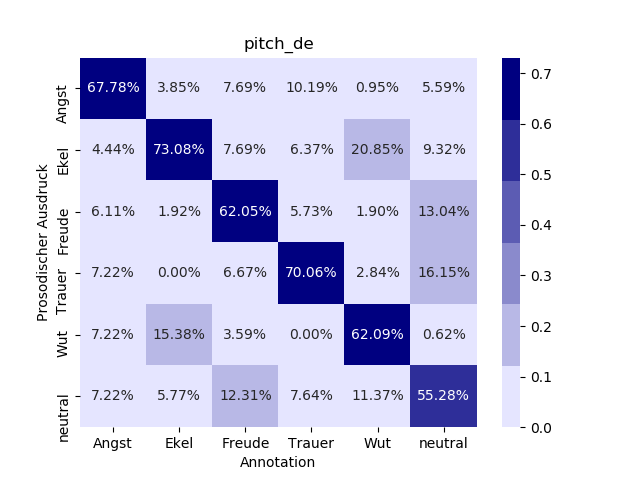
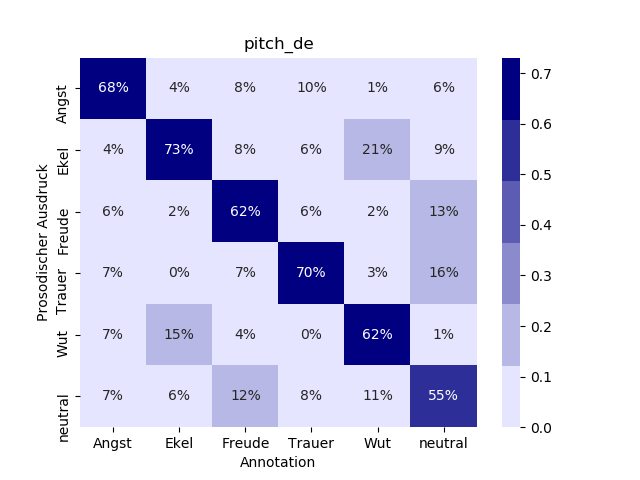
create an overview with participants info

diff --git a/experiment_overview.py b/experiment_overview.py
@@ -48,13 +48,49 @@ def create_experiment_overview(df_experiment, language):
 
 
 
+def participants_overview():
+    overview_folder = 'overview/final/'
+    file_list = dtp.get_filelist_in_folder(overview_folder)
+    df_participants = pd.DataFrame(columns=['Kultur', 'count_M', 'count_F', 'count_all','mean_age_all', 'min_age_all',
+                                            'max_age_all', 'SD_age_all','M_mean_age', 'M_SD_age','F_mean_age', 'F_SD_age'])
+    df_participants['Kultur'] = ['Deutsch', 'Armenisch']
+    for f in file_list:
+        f_path = overview_folder + f
+        experiment_overview = pd.read_csv(f_path, sep=';')
+        experiment_language = 'Deutsch' if experiment_overview['language'].str.contains('de').any() else 'Armenisch'
+        df_m = experiment_overview.loc[experiment_overview['sex'] == 'M']
+        df_f = experiment_overview.loc[experiment_overview['sex'] == 'F']
+        df_participants.loc[df_participants['Kultur'] == experiment_language, 'count_M'] = df_m.shape[0]
+        df_participants.loc[df_participants['Kultur'] == experiment_language, 'count_F'] = df_f.shape[0]
+        df_participants.loc[df_participants['Kultur'] == experiment_language, 'count_all'] = experiment_overview.shape[0]
+        df_participants.loc[df_participants['Kultur'] == experiment_language, 'mean_age_all'] = experiment_overview['age'].mean()
+        df_participants.loc[df_participants['Kultur'] == experiment_language, 'min_age_all'] = experiment_overview['age'].min()
+        df_participants.loc[df_participants['Kultur'] == experiment_language, 'max_age_all'] = experiment_overview[
+            'age'].max()
+        df_participants.loc[df_participants['Kultur'] == experiment_language,  'SD_age_all'] = np.std(experiment_overview['age'].to_list())
+        df_participants.loc[df_participants['Kultur'] == experiment_language, 'M_mean_age'] = df_m['age'].mean()
+        df_participants.loc[df_participants['Kultur'] == experiment_language, 'M_SD_age'] = np.std(df_m['age'].to_list())
+        df_participants.loc[df_participants['Kultur'] == experiment_language, 'F_mean_age'] = df_f['age'].mean()
+        df_participants.loc[df_participants['Kultur'] == experiment_language, 'F_SD_age'] = np.std(df_f['age'].to_list())
+
+    df_participants.to_csv('participants_overview.csv')
 
 
-base_folder = 'normalized_data/'
-file_list = dtp.get_filelist_in_folder(base_folder)
 
-for f in file_list:
-    f_path = base_folder + f
-    annotation_data = pd.read_csv(f_path)
-    experiment_language = dtp.get_experiment_language(annotation_data)
-    create_experiment_overview(annotation_data, experiment_language)
+
+
+def experiment_overview_for_folder():
+
+    base_folder = 'normalized_data/'
+    file_list = dtp.get_filelist_in_folder(base_folder)
+    for f in file_list:
+        f_path = base_folder + f
+        annotation_data = pd.read_csv(f_path)
+        experiment_language = dtp.get_experiment_language(annotation_data)
+        create_experiment_overview(annotation_data, experiment_language)
+
+
+
+#experiment_overview_for_folder()
+
+participants_overview()

diff --git a/Plotter.py b/Plotter.py
@@ -261,7 +261,7 @@ def create_heatmap(path):
             confusion_matrix = pd.crosstab(df_group['expected'], df_group['inputvalue'],
                                        rownames=['Prosodischer Ausdruck'], colnames=['Annotation'],)
             sns.heatmap(confusion_matrix/np.sum(confusion_matrix), annot=True,
-            fmt='.2%', cmap = sns.light_palette("navy"))
+            fmt='.1%', cmap = sns.light_palette("navy"))
             plt.title(f'{g}_{experiment_name}')
             plt.savefig(f'plots/conf_{g}_{experiment_name}.png')
             plt.show()
@@ -272,6 +272,6 @@ def create_heatmap(path):
 base_folder = 'normalized_data/'
 
 
-create_countplots(base_folder)
+#create_countplots(base_folder)
 
-#create_heatmap(base_folder)
+create_heatmap(base_folder)
